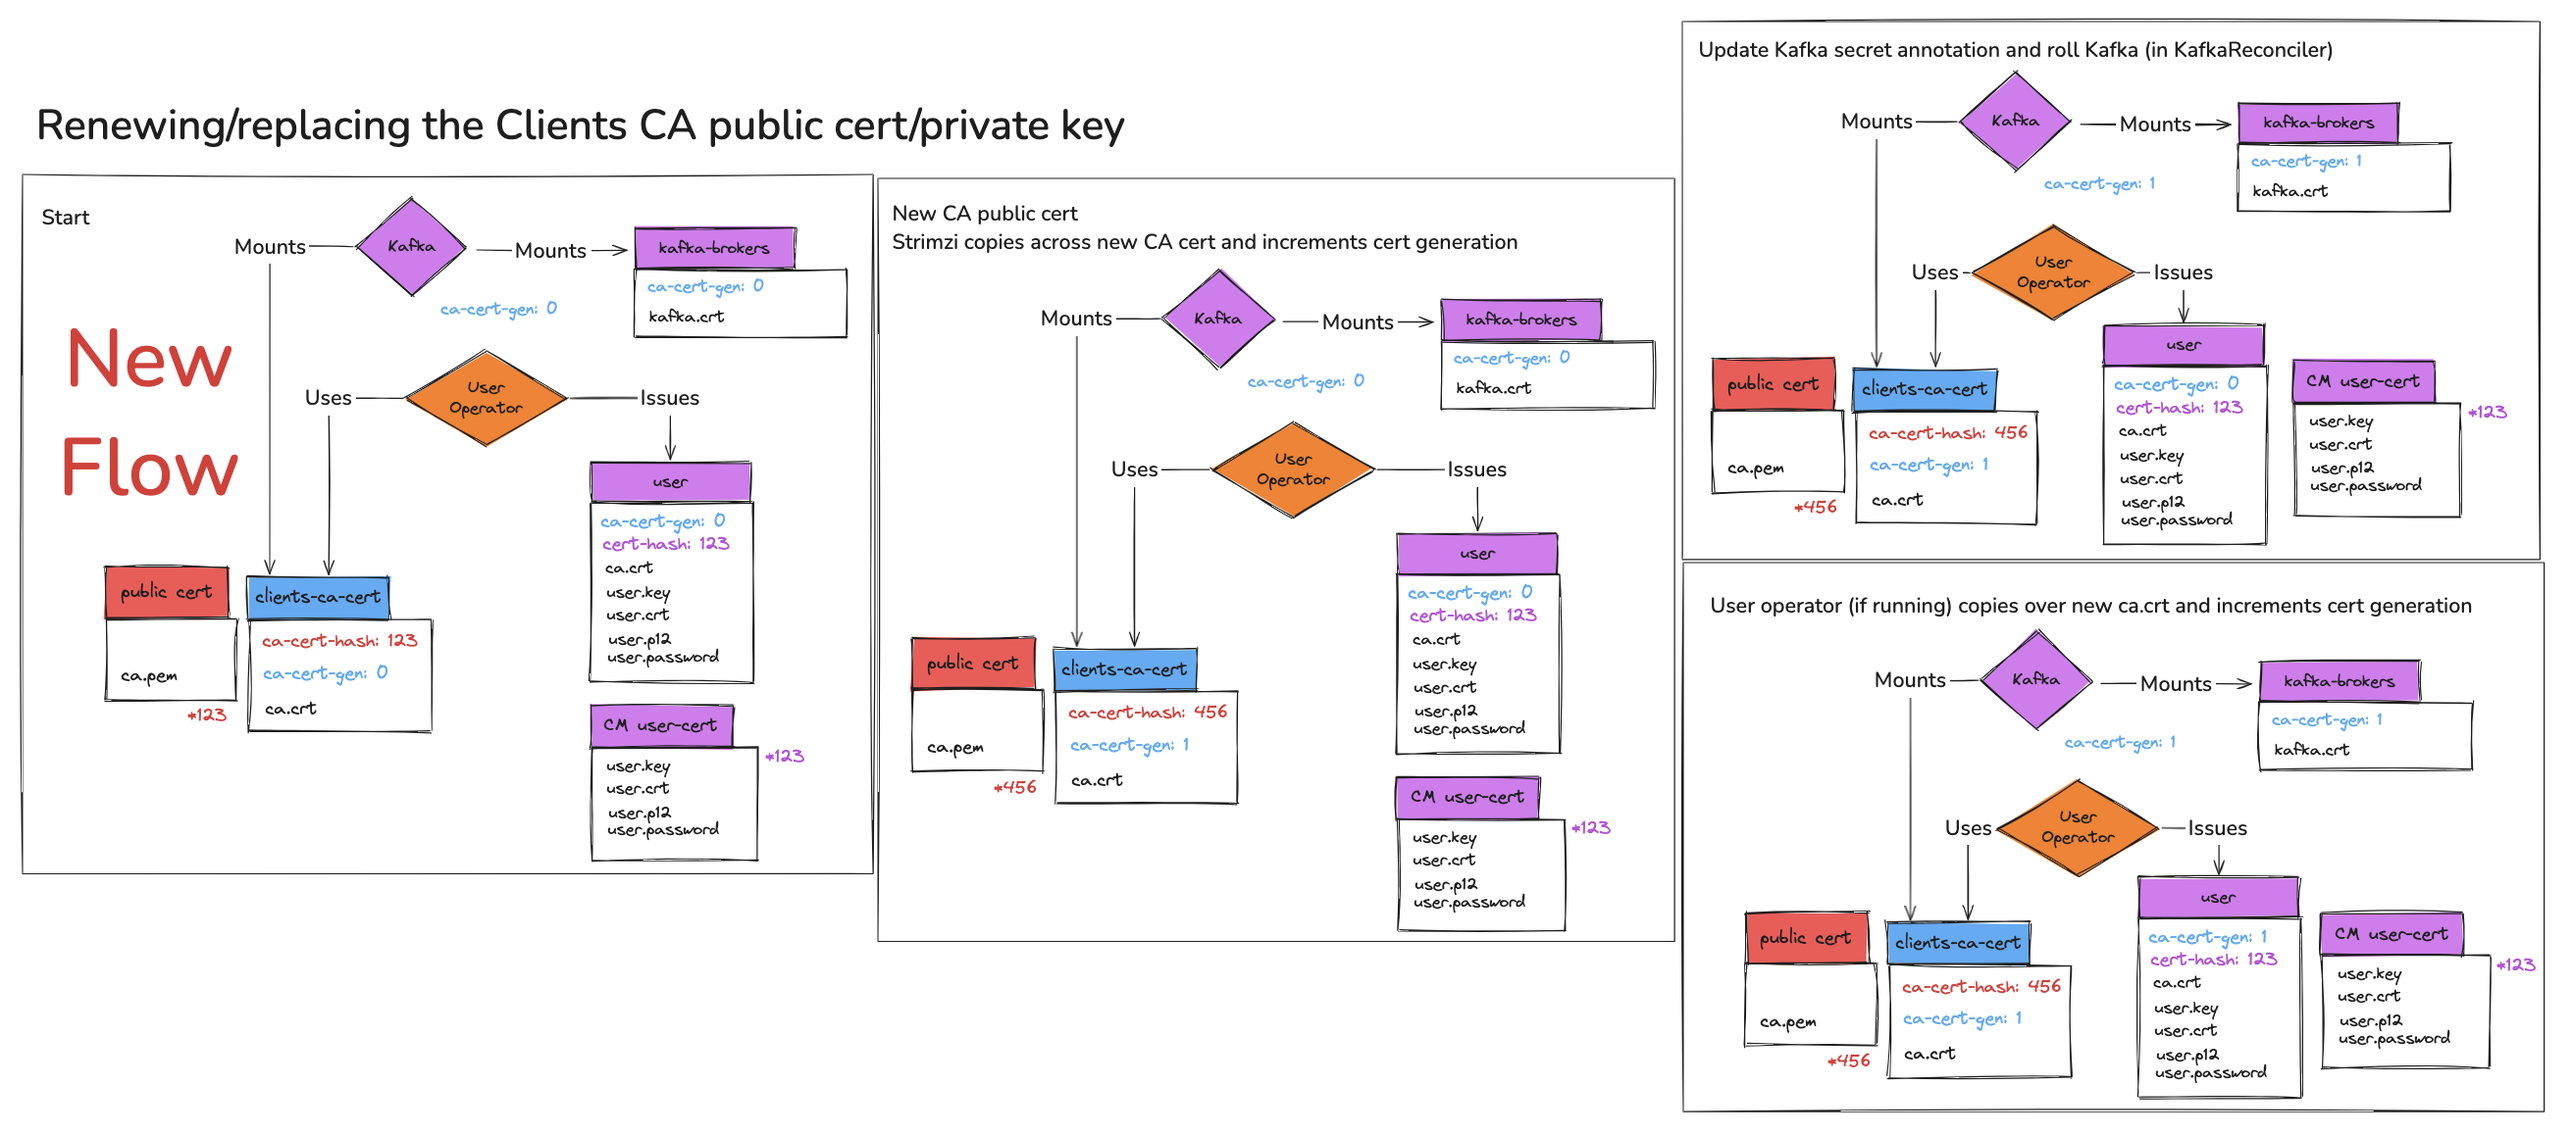
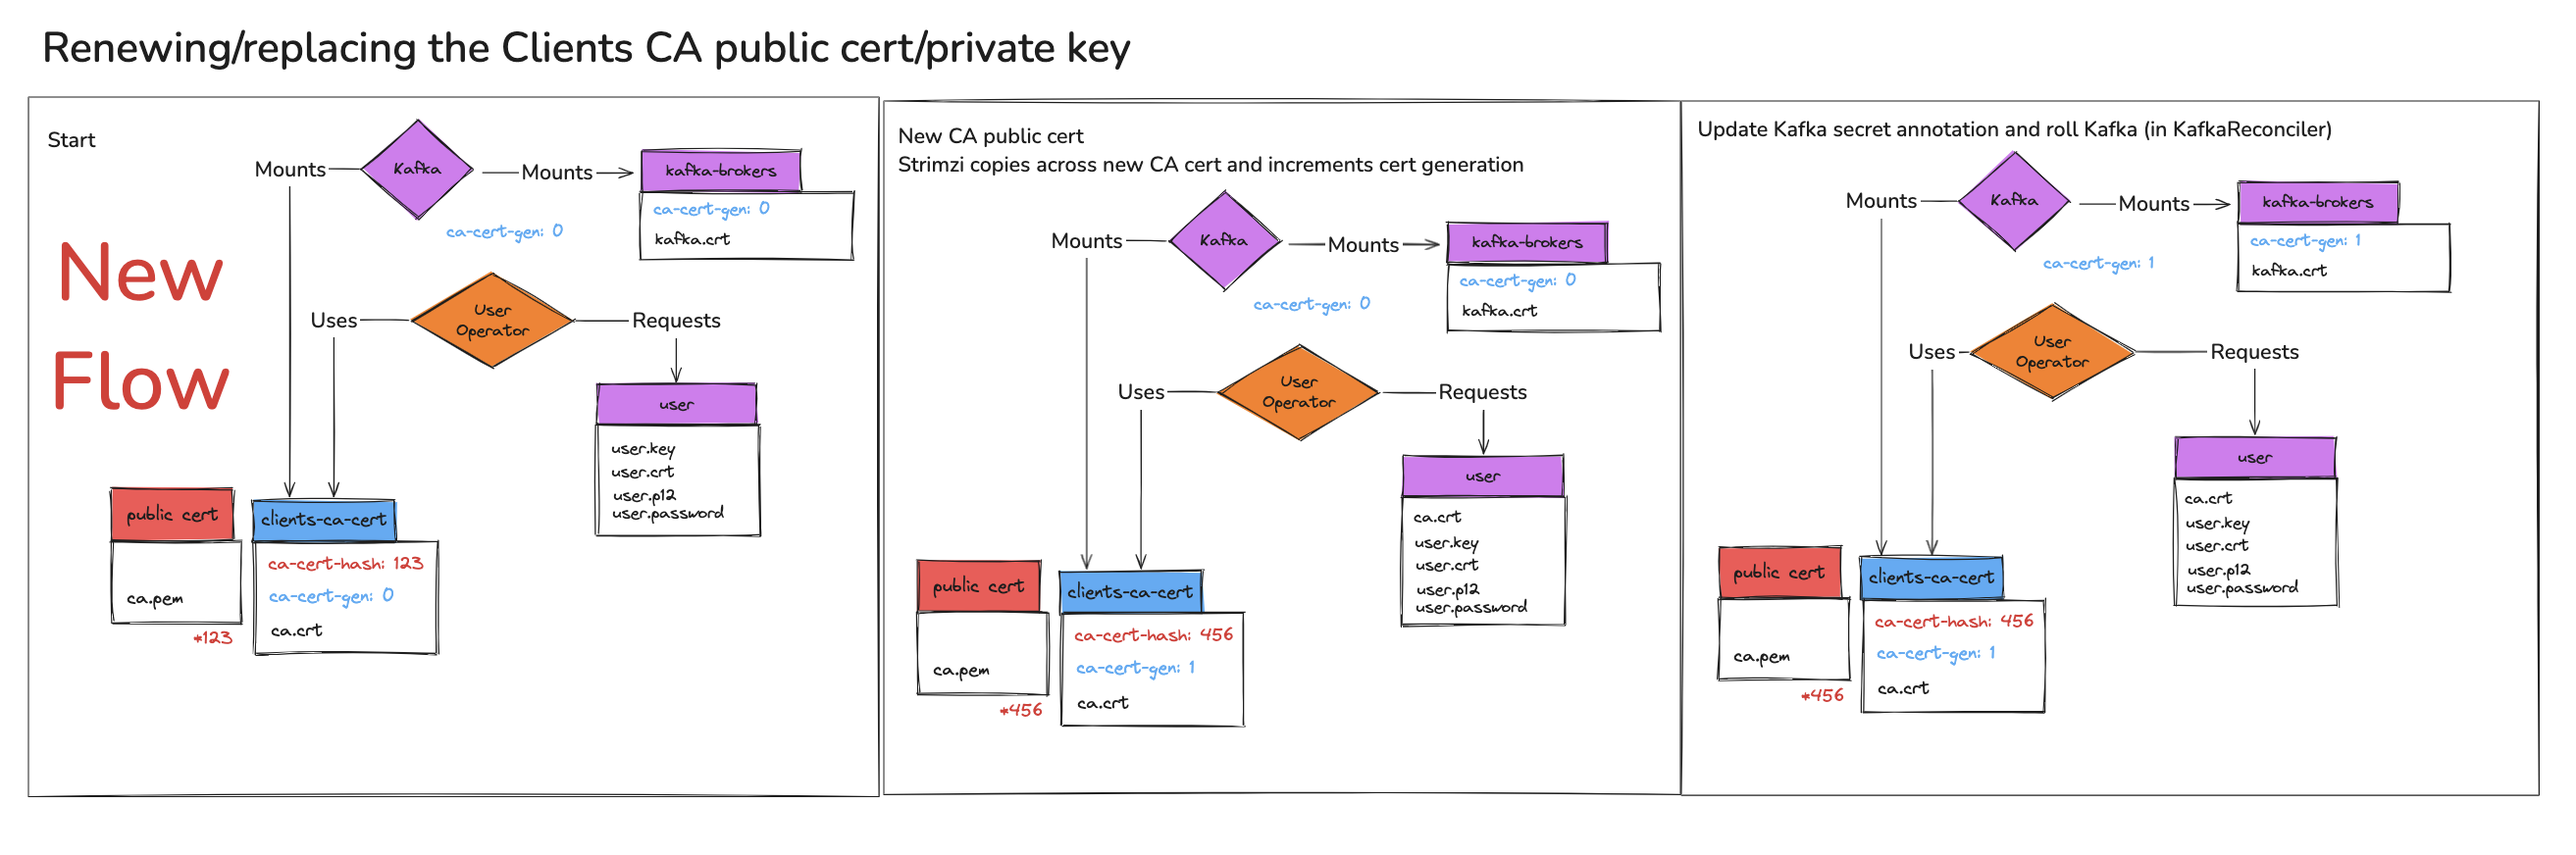
Update API and change user operator cert handling
* Update the API to use strimzi.io as the default type.
* Update the user operator section to
use the cert-manager Secret directly, rather
than creating a copy.

diff --git a/087-external-certificate-manager.md b/087-external-certificate-manager.md
@@ -22,7 +22,7 @@ In addition to Strimzi fully managing the certificates as described above, there
 * Users can [install and use their own CA certificate and private keys](https://strimzi.io/docs/operators/latest/deploying#installing-your-own-ca-certificates-str), instead of using the defaults generated by the Cluster Operator.
   When using this option, both the CA certificate and private key must be provided, and Strimzi still issues the end-entity (EE) certificates that are presented by the components.
 * Provide a Clients CA public cert, a dummy value for the private key and issue their own user certificates out-of-band.
-  If using this approach, users can also use `KafkaUser` CRs with `spec.type` set to `tls-external` with the User Operator managing ACLs and quotas.
+  If using this approach, users can also use `KafkaUser` CRs with `spec.authentication.type` set to `tls-external` with the User Operator managing ACLs and quotas.
 * Users can [provide custom listener certificates](https://strimzi.io/docs/operators/latest/deploying#proc-installing-certs-per-listener-str) for TLS encryption.
   This option only affects how user applications connect to Kafka.
   It does not change how the Strimzi components connect to Kafka, or how the Kafka brokers connect to each other.
@@ -49,6 +49,7 @@ The proposal makes a few assumptions:
 * Strimzi will create `Certificate` custom resources (to request a new end-entity certificate is issued) and will allow the user to influence the contents of these resources by exposing options in the `Kafka` custom resource.
 * Strimzi will not directly interact with the lower level `CertificateRequest` and `CertificateSigningRequests` custom resources.
 * When Strimzi creates a `Certificate` custom resource, cert-manager will issue the certificate within a reasonable amount of time such that Strimzi can wait during the reconciliation.
+  If cert-manager is taking longer than expected Strimzi will fail the reconciliation and retry during the next reconciliation.
 * Users will provide to the Strimzi Cluster Operator the CA certificates it must trust for the current issuer via a Kubernetes Secret.
 
 ### API
@@ -63,7 +64,7 @@ spec:
     generateSecretOwnerReference: <boolean>
     renewalDays: <integer> # days before notAfter when we should start renewal
     certificateExpirationPolicy: <renew-certificate|replace-key>
-    type: <internal|cert-manager.io> # (1)
+    type: <strimzi.io|cert-manager.io> # (1)
     certManagerIssuerRef: # (2)
       name: <string>
       kind: <Issuer|ClusterIssuer>
@@ -73,7 +74,7 @@ spec:
       certificate: <string>
 ```
 
-1. The`type` property will default to `internal` when not set and will use the existing behaviour, allowing backwards compatibility.
+1. The`type` property will default to `strimzi.io` when not set and will use the existing behaviour, allowing backwards compatibility.
    The option `cert-manager.io` will only be valid if `generateCertificateAuthority` is set to `false`.
 2. The property `certManagerIssuerRef` will only be used by Strimzi if `type` is set to `cert-manager.io`.
   The `name`, `kind`, and `group` properties will be copied over into the `Certificate` custom resource Strimzi creates.
@@ -87,7 +88,8 @@ To make use of this new option the user will have to:
 1. Install cert-manager.
 2. Create an `Issuer` or `ClusterIssuer` custom resource.
 3. Create a `Secret` containing the CA public cert for Strimzi to trust.
-   Users can optionally use [trust-manager](https://cert-manager.io/docs/trust/trust-manager/) to create this Secret, but they are responsible for installing trust-manager and creating the `Bundle` CR with a single `sources` entry.
+   The `Secret` must contain a data entry with all the CAs bundled into one PEM file.
+   Users can optionally use [trust-manager](https://cert-manager.io/docs/trust/trust-manager/) to create this Secret, but they are responsible for installing trust-manager and creating the `Bundle` CR with a single `target` entry.
 4. Create a `Kafka` resource with `clusterCa.type` and/or `clientsCa.type` set to `cert-manager.io`, and `certManagerIssuerRef` and `publicCert` configured.
 
 ### Internal handling of Cluster CA
@@ -170,28 +172,25 @@ Strimzi will add two annotations to the `<CLUSTER_NAME>-cluster-ca-cert` Secret:
 
 #### Issuing KafkaUser certificates
 
+The User operator will be updated to have four environment variables to configure the CA issuer:
+- `STRIMZI_CA_TYPE` with either the value `strimzi.io` or `cert-manager.io`
+- `STRIMZI_CM_ISSUER_NAME`
+- `STRIMZI_CM_ISSUER_KIND`
+- `STRIMZI_CM_ISSUER_GROUP`
+
+These will be set by the Cluster operator when the User operator is deployed as part of the Entity operator.
+
 When a `KafkaUser` with `spec.authentication.type` set to `tls` is creates Strimzi  will create a `Certificate` custom resource.
 Strimzi will specify the required CN/SANS in the `Certificate` resource for the user certificate.
-Strimzi will specify the Secret for the certificate to be stored in as the existing name for the certificate Secret suffixed with `-cm`, for example `<USER_NAME>-cm`.
+Strimzi will specify the `Secret` for the certificate to be stored to match the name of the `KafkaUser` resource.
 Strimzi will request the certificate in both PEM and PKCS12 format.
 Strimzi will wait for the usual operation timeout during the reconciliation loop for the `Certificate` status to indicate that the certificate has been issued before continuing.
-Once the certificate has been issued, Strimzi will copy the certificate across from the cert-manager provided Secret into its own existing Secret.
-Strimzi will also copy across the ClientsCA public certificate.
-
-Strimzi will annotate the Secret it manages with:
-* `strimzi.io/user-cert-hash` annotation with the value being the hash of the certificate in the cert-manager Secret.
-* `strimzi.io/clients-ca-cert-generation` annotation with the value matching the current value on the `<CLUSTER_NAME>-clients-ca-cert` Secret.
 
 #### Tracking changes to user certificates
 
 Cert-manager will be responsible for renewing all user certificates.
 When a certificate is renewed cert-manager will update the related Secret.
-During a reconciliation Strimzi will check the hash of the certificate stored in cert-manager Secrets to see if an update is needed.
-Strimzi will copy over the new certificate into its own Secret and update the `strimzi.io/user-cert-hash` annotation to match the new certificate.
-
-> ![Issuing new user certificate](./images/087-new-renew-user-cert.png)
->
-> Fig 3: Proposed workflow when cert-manager issues a new Kafka User certificate
+Since the user's clients are directly using the cert-manager created Secret, Strimzi will take no action.
 
 #### Handling CA cert renewals and key replacements
 
@@ -200,8 +199,6 @@ If the certificate has changed Strimzi will copy over the new certificate to rep
 It will also update the `strimzi.io/ca-cert-hash` and increment the `strimzi.io/clients-ca-cert-generation` annotations.
 
 Once the annotations are updated Strimzi will update the annotation on the Kafka brokers Secret and the Kafka pods and roll the Kafka pods to trust the new CA cert.
-
-During the user operator reconciliation loop Strimzi will copy the new CA cert into any user certificate Secrets, incrementing the `strimzi.io/clients-ca-cert-generation`.
 
 > ![Renewing/replacing the clients CA public cert/private key](./images/087-existing-renew-replace-clientca-certs.png)
 >
@@ -248,7 +245,7 @@ To revert to user managed CAs the user must:
    1. contain their public CA cert (keeping the old cert-manager one)
    2. increment the `strimzi.io/ca-cert-generation` annotation
 3. Create the `<CLUSTER_NAME>-cluster-ca` and/or `<CLUSTER_NAME>-clients-ca` private key Secrets
-4. Update the `Kafka` resource to change the `clusterCa.certificateIssuer` and/or `clientsCa.certificateIssuer` `type` to `internal`.
+4. Update the `Kafka` resource to change the `clusterCa.certificateIssuer` and/or `clientsCa.certificateIssuer` `type` to `strimzi.io`.
 5. Resume reconciliation.
 
 When using this feature for the ClientsCa:
@@ -292,3 +289,11 @@ For the ClusterCa the certificates needed are complex, since there are multiple 
 It would be very complex for the user to hand-craft the right certificates, and would also restrict their ability to scale up the cluster, 
 since they would need to create the new certificates up front.
 For these reasons it makes sense for Strimzi to create the `Certificate` custom resources.
+
+### Make a copy of the cert-manager Secret for KafkaUser resources
+
+A previous version of this proposal described the User Operator making a copy of the cert-manager certificate Secret for each `KafkaUser`.
+This was removed because there was no check being used to determine whether the Secret data should be copied into the Strimzi managed Secret.
+As a result having a copy is not needed.
+This also means the user `Secret` will not contain the ClientsCA public cert.
+However since the user is managing the CA (via cert-manager) this is not an issue.
